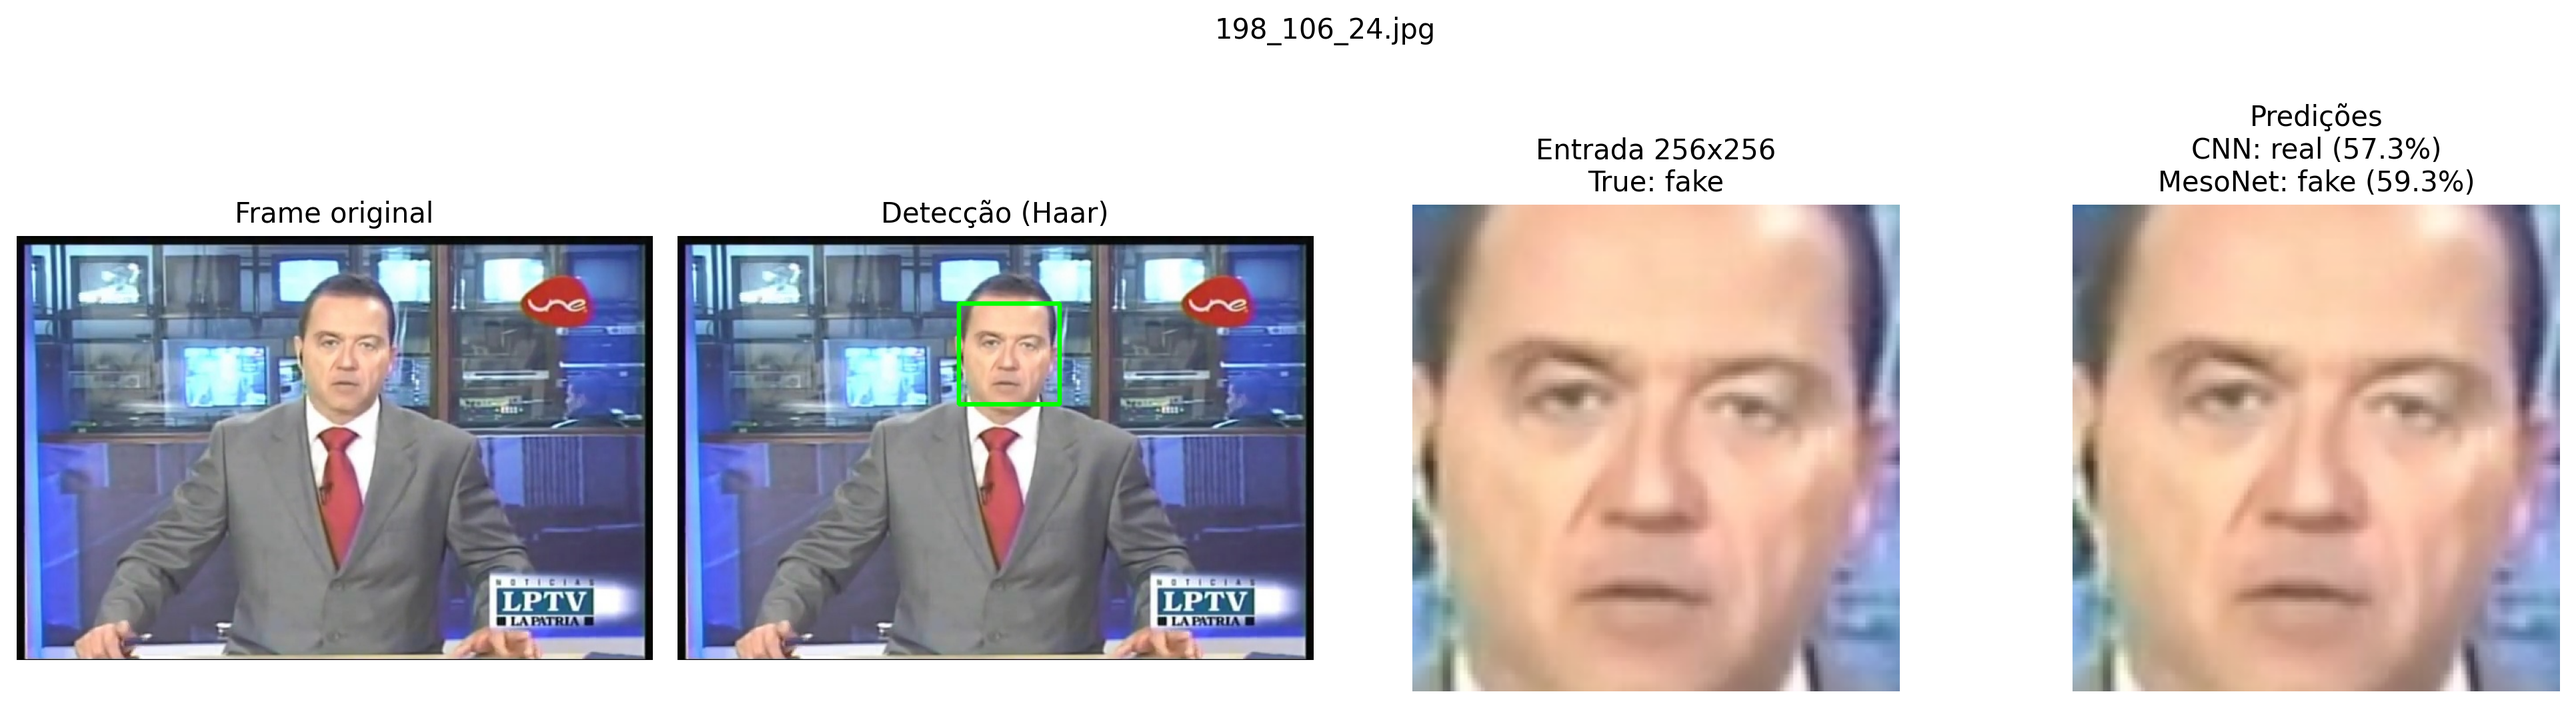
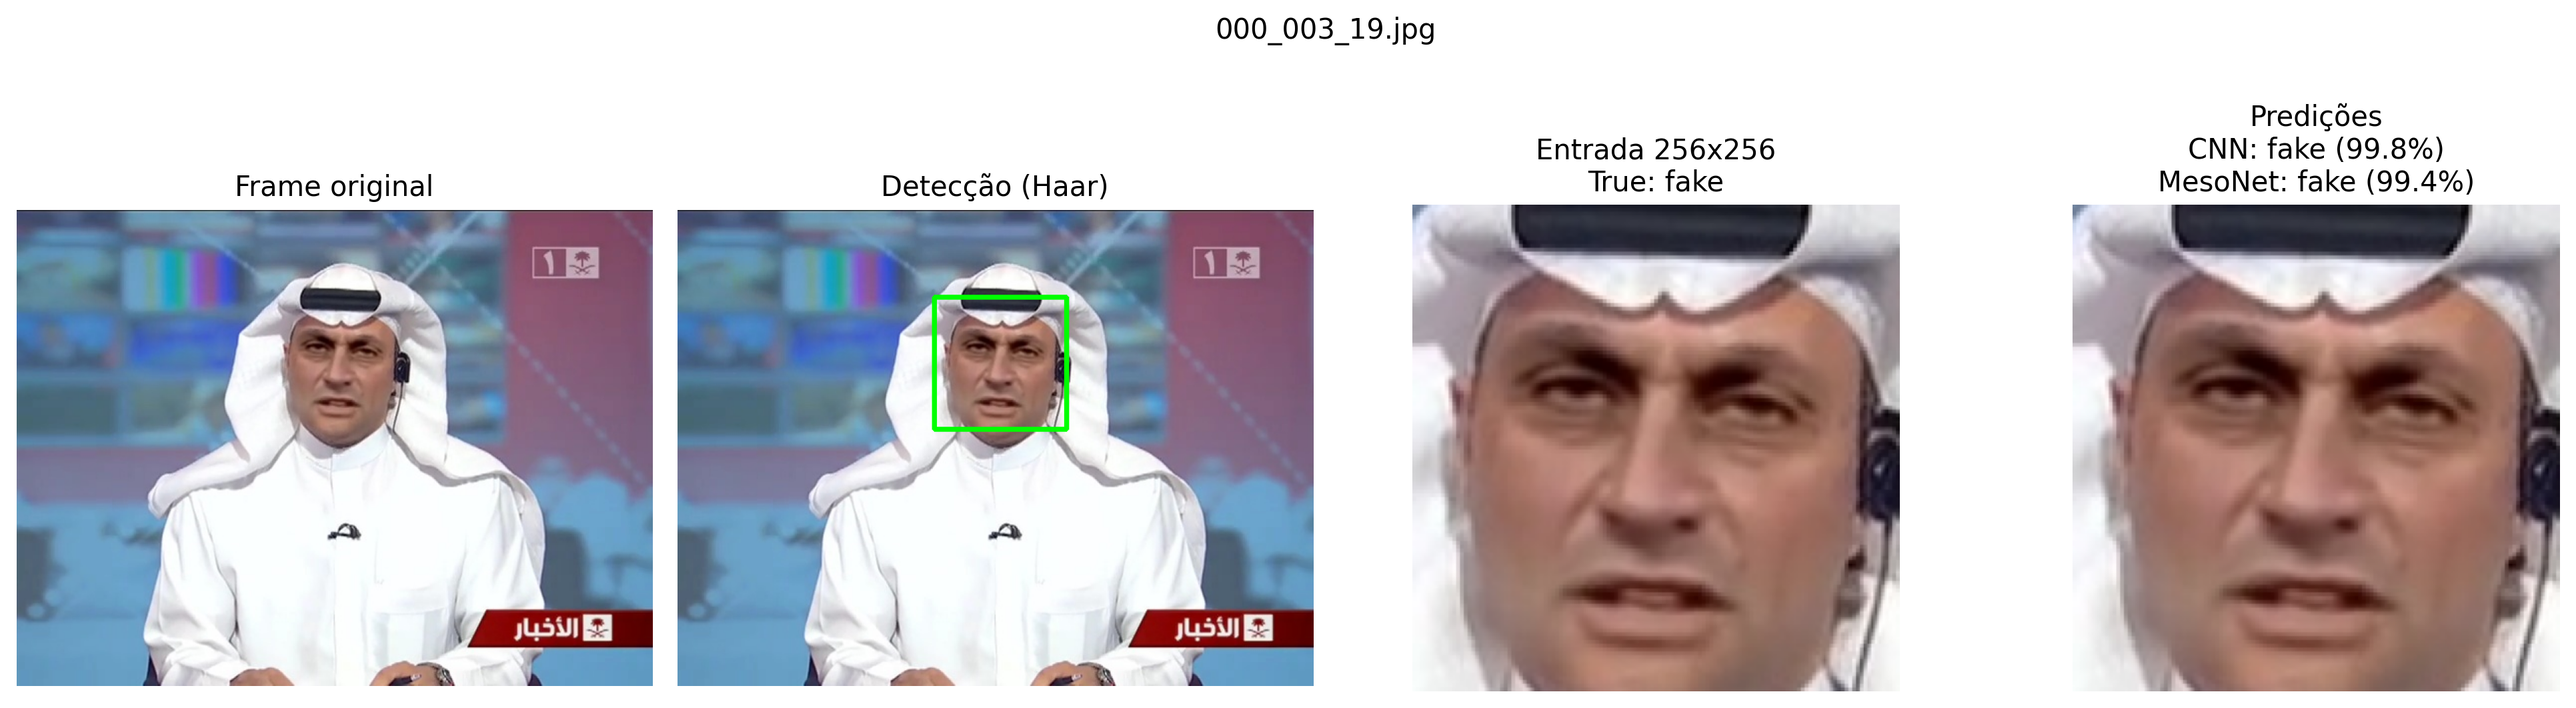
modicações

diff --git a/comparar_modelos.py b/comparar_modelos.py
@@ -5,7 +5,7 @@ import torch
 import torch.nn as nn
 import matplotlib.pyplot as plt
 
-IMAGE_PATH = "data/dataset/fake/198_106_24.jpg"
+IMAGE_PATH = "data/dataset/fake/000_003_19.jpg"
 TRUE_CLASS = "fake" 
 
 BASE_DIR = os.path.abspath(os.path.dirname(__file__))
